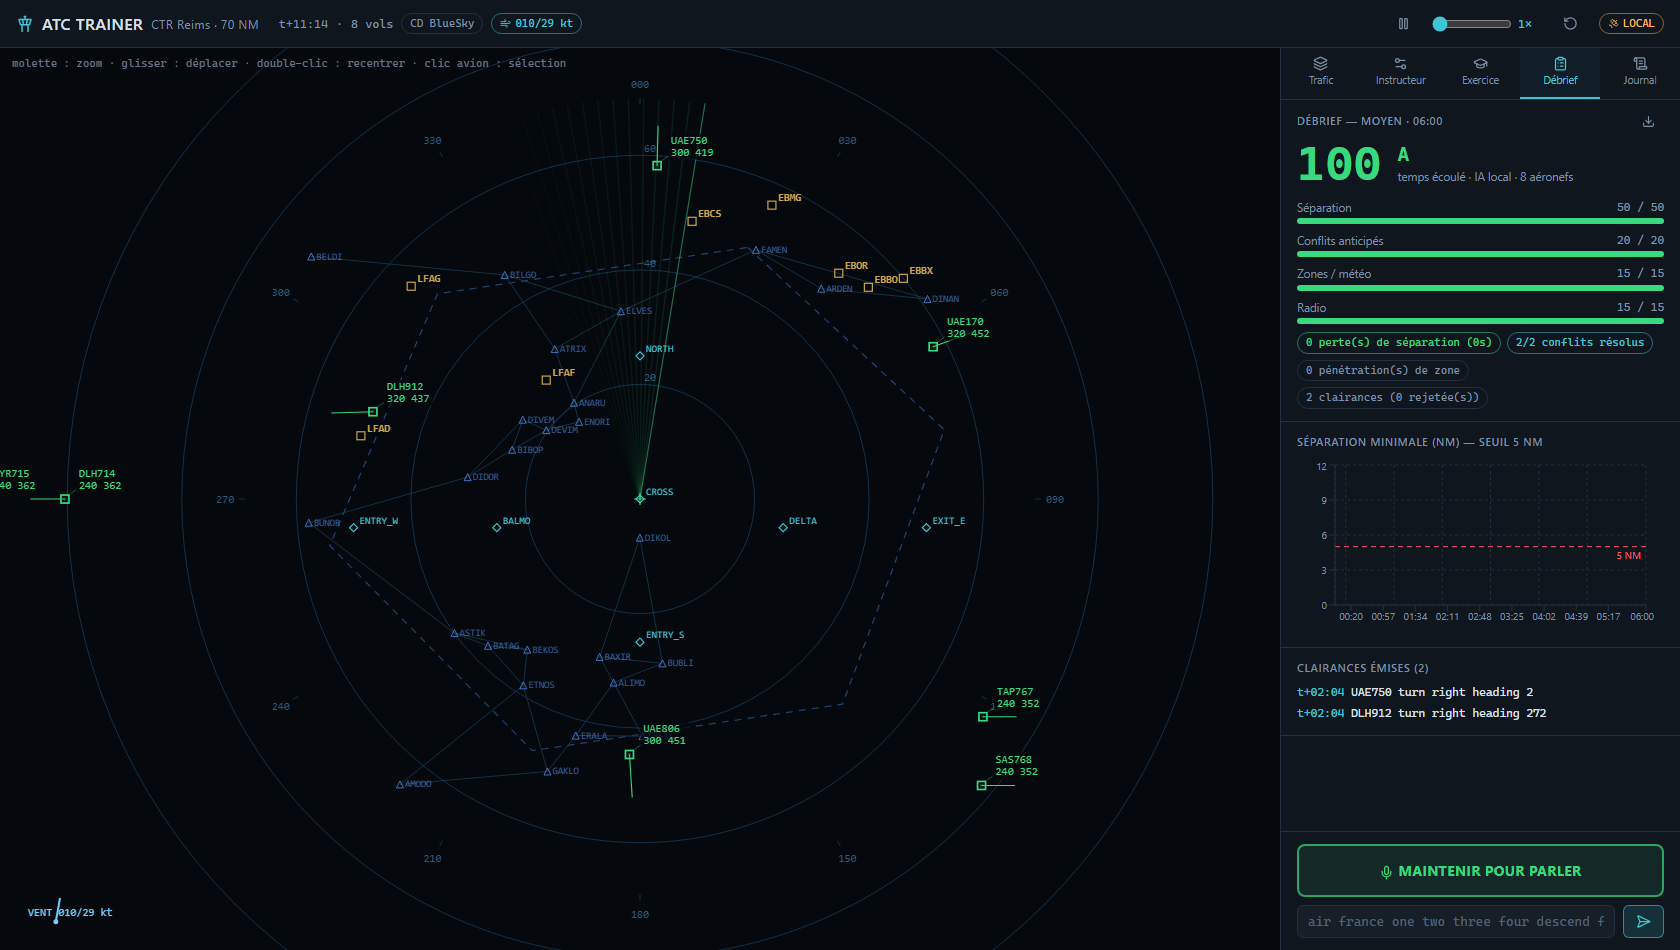
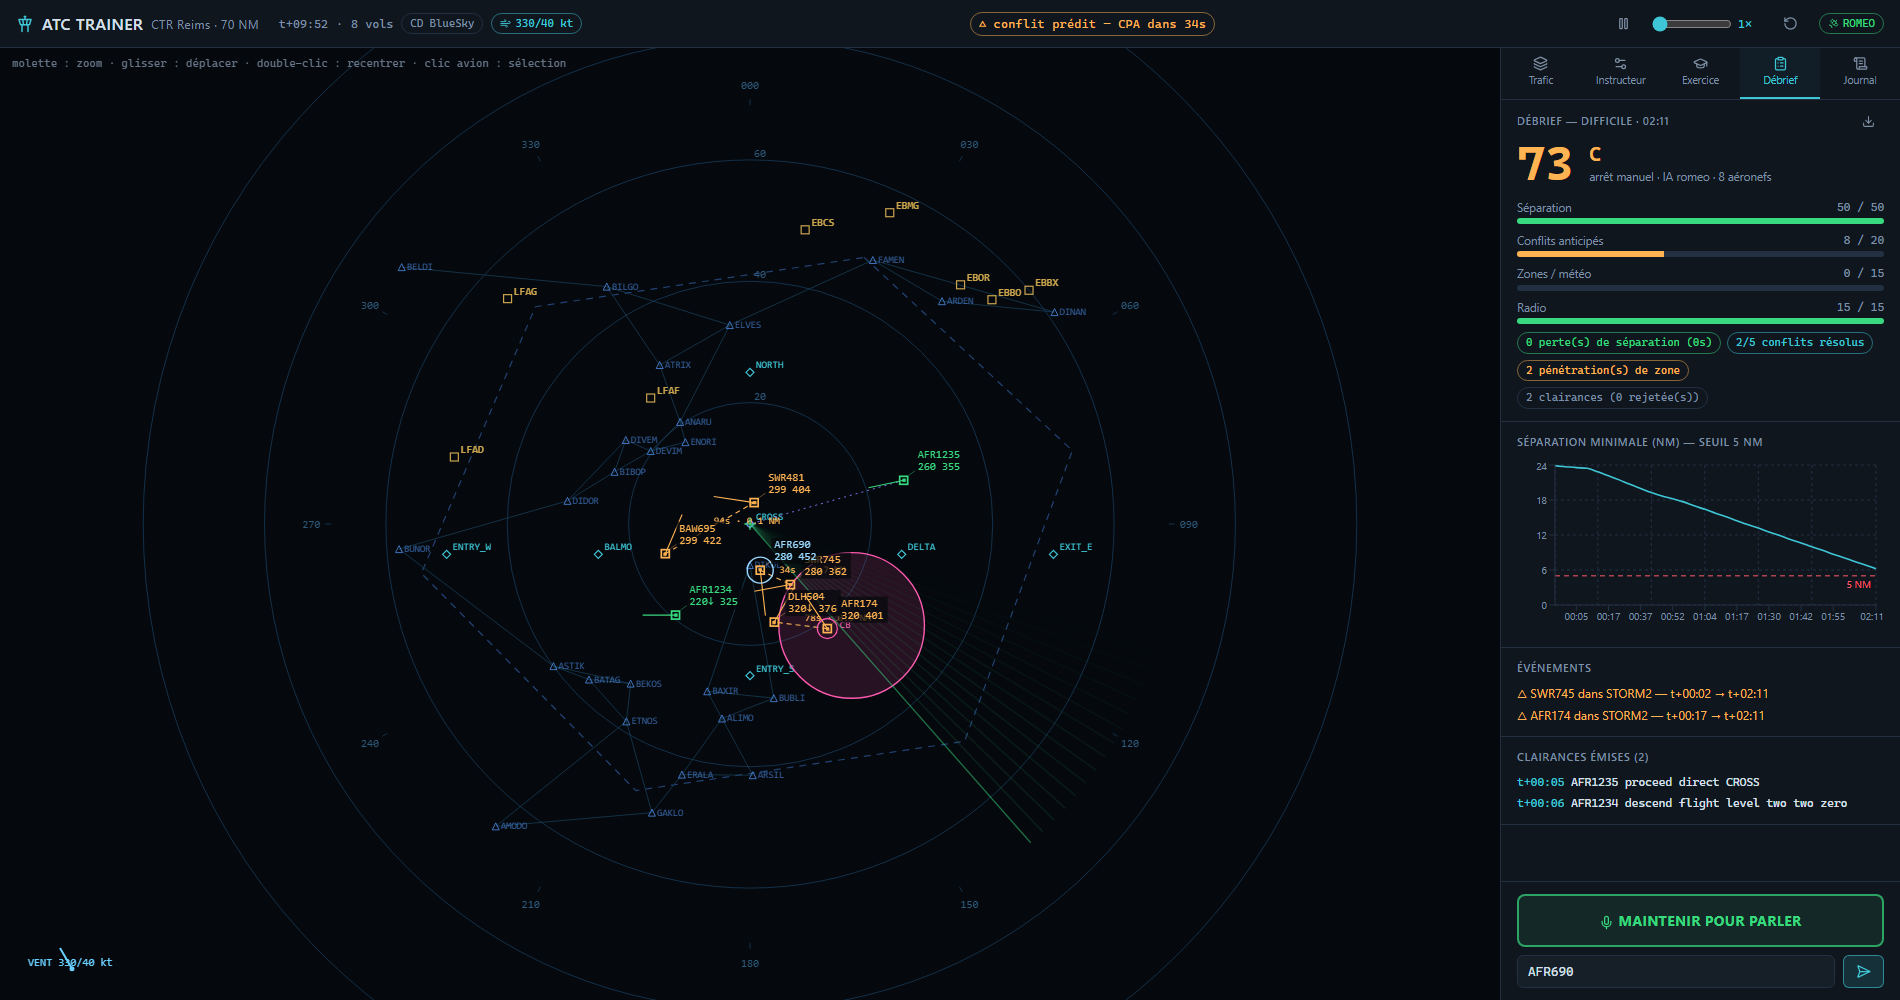
docs: refresh all README media with the new interface
- New hero GIF (docs/assets/app_radar_live.gif, ~12 s of live radar: sweep,
  trails, programmed conflict with time-to-CPA, storm cell, wind, strips).
- Regenerated stills at 1900x1000 with a staged Difficile exercise: radar +
  strips with an aircraft selected, exercise tab with objectives and live
  score, debrief with score breakdown and separation chart.
- tools/capture_media.py: reusable Playwright script that stages the scene
  through the API and regenerates every visual in one run.
- Removed the superseded matplotlib-era radar images/GIFs from the README and
  the tree (still available in git history); Demos section rewritten around
  the training interface.

diff --git a/tools/capture_media.py b/tools/capture_media.py
@@ -1,0 +1,151 @@
+"""
+Capture des visuels du README (PNG + GIF anime) sur l'application EN MARCHE.
+============================================================================
+Met en scene une situation riche via l'API (exercice Difficile : conflits
+programmes, vent, cellule orageuse), selectionne un avion, puis capture :
+
+  - docs/assets/app_radar.png        radar + strips (onglet Trafic)
+  - docs/assets/app_exercice.png     exercice en cours (objectifs + score live)
+  - docs/assets/app_debrief.png      debrief (score, barème, courbe de separation)
+  - docs/assets/app_radar_live.gif   ~12 s de radar vivant (balayage, trainees)
+
+Prerequis : l'application tournant sur http://127.0.0.1:8000 et
+            pip install playwright && playwright install chromium
+
+Execution : src\\bluesky-env\\Scripts\\python.exe tools\\capture_media.py
+"""
+import io
+import os
+import time
+
+import requests
+from PIL import Image
+from playwright.sync_api import sync_playwright
+
+BASE = "http://127.0.0.1:8000"
+HERE = os.path.dirname(os.path.abspath(__file__))
+ASSETS = os.path.join(os.path.dirname(HERE), "docs", "assets")
+
+VIEW_W, VIEW_H = 1900, 1000      # fenetre de capture
+SIDEBAR_W, TOPBAR_H = 400, 48    # geometrie de l'interface (App.tsx / TopBar.tsx)
+RANGE_NM = 70.0
+
+GIF_FRAMES = 70
+GIF_WIDTH = 1040
+GIF_FRAME_MS = 150
+
+
+def api(method, path, **kw):
+    r = requests.request(method, BASE + path, timeout=120, **kw)
+    r.raise_for_status()
+    return r.json() if r.content else {}
+
+
+def stage_scene():
+    """Exercice Difficile + une route directe + une descente : scene riche."""
+    api("post", "/api/health/refresh")
+    api("post", "/api/sim/reset")
+    time.sleep(1.5)
+    ex = api("post", "/api/exercise/start",
+             json={"difficulty": "difficile", "duration_min": 15, "seed": 7})
+    conflict_cs = {cs for c in ex["conflicts_built"] for cs in c["pair"]}
+    time.sleep(2.0)
+
+    st = api("get", "/api/state")
+    fillers = [a["id"] for a in st["aircraft"] if a["id"] not in conflict_cs]
+    if fillers:                                   # route FMS visible au radar
+        api("post", "/api/command", json={"text": f"{fillers[0]} proceed direct CROSS"})
+    if len(fillers) > 1:                          # fleche de descente sur les strips
+        api("post", "/api/command", json={"text": f"{fillers[1]} descend flight level two two zero"})
+
+    # avance acceleree jusqu'a l'apparition des conflits predits (lignes ambre)
+    api("post", "/api/sim/speed", json={"value": 6})
+    for _ in range(40):
+        time.sleep(2)
+        st = api("get", "/api/state")
+        if st.get("predicted"):
+            break
+    api("post", "/api/sim/speed", json={"value": 4})
+    return st
+
+
+def select_aircraft_click(page, state):
+    """Clique sur un avion en conflit predit -> anneau de selection cyan."""
+    target = None
+    pred = state.get("predicted") or []
+    if pred:
+        target = next((a for a in state["aircraft"] if a["id"] == pred[0]["pair"][0]), None)
+    target = target or (state["aircraft"][0] if state["aircraft"] else None)
+    if not target:
+        return
+    w, h = VIEW_W - SIDEBAR_W, VIEW_H - TOPBAR_H
+    scale = (min(w, h) / 2 - 30) / (RANGE_NM * 1.05)
+    px = w / 2 + target["x"] * scale
+    py = h / 2 - target["y"] * scale + TOPBAR_H
+    if 0 < px < w and TOPBAR_H < py < VIEW_H:
+        page.mouse.click(px, py)
+
+
+def shoot(page, tab_label, path, settle_ms=1800):
+    """Bascule d'onglet par CLIC (un changement de hash seul ne re-rend pas la SPA)."""
+    page.locator("nav button", has_text=tab_label).click()
+    page.wait_for_timeout(settle_ms)
+    page.screenshot(path=path)
+    print(f"  [png] {os.path.relpath(path, os.path.dirname(HERE))}"
+          f" ({os.path.getsize(path) // 1024} ko)")
+
+
+def record_gif(page, path):
+    """Frames pleine page -> GIF optimise (reduit a GIF_WIDTH px de large)."""
+    frames = []
+    for _ in range(GIF_FRAMES):
+        t0 = time.time()
+        png = page.screenshot()
+        im = Image.open(io.BytesIO(png)).convert("RGB")
+        ratio = GIF_WIDTH / im.width
+        im = im.resize((GIF_WIDTH, round(im.height * ratio)), Image.LANCZOS)
+        frames.append(im.quantize(colors=128, dither=Image.NONE))
+        time.sleep(max(0.0, GIF_FRAME_MS / 1000 - (time.time() - t0)))
+    frames[0].save(path, save_all=True, append_images=frames[1:],
+                   duration=GIF_FRAME_MS, loop=0, optimize=True)
+    print(f"  [gif] {os.path.relpath(path, os.path.dirname(HERE))}"
+          f" ({os.path.getsize(path) // 1024} ko, {len(frames)} images)")
+
+
+def main():
+    os.makedirs(ASSETS, exist_ok=True)
+    print("[1] mise en scene (exercice Difficile + meteo + conflits)...")
+    state = stage_scene()
+    npred = len(state.get("predicted") or [])
+    print(f"    {len(state['aircraft'])} avions, {npred} conflit(s) predit(s)")
+
+    with sync_playwright() as pw:
+        browser = pw.chromium.launch()
+        page = browser.new_page(viewport={"width": VIEW_W, "height": VIEW_H},
+                                device_scale_factor=1)
+        print("[2] stills...")
+        page.goto(f"{BASE}/#trafic")
+        page.wait_for_timeout(2500)
+        select_aircraft_click(page, api("get", "/api/state"))
+        page.wait_for_timeout(700)
+        page.screenshot(path=os.path.join(ASSETS, "app_radar.png"))
+        print("  [png] docs/assets/app_radar.png")
+        shoot(page, "Exercice", os.path.join(ASSETS, "app_exercice.png"))
+
+        print("[3] gif du radar vivant...")
+        shoot_back = page.locator("nav button", has_text="Trafic")
+        shoot_back.click()
+        page.wait_for_timeout(1200)
+        record_gif(page, os.path.join(ASSETS, "app_radar_live.gif"))
+
+        print("[4] debrief...")
+        api("post", "/api/sim/speed", json={"value": 1})
+        api("post", "/api/exercise/stop")
+        time.sleep(1.5)
+        shoot(page, "Débrief", os.path.join(ASSETS, "app_debrief.png"))
+        browser.close()
+    print("[OK] visuels regeneres dans docs/assets/")
+
+
+if __name__ == "__main__":
+    main()

diff --git a/README.md b/README.md
@@ -14,7 +14,7 @@ validated command, executed in the BlueSky simulator, and answered by a synthesi
 voice. The full chain runs as a real time loop, with the AI models hosted on a GPU cluster and the
 simulator running on a local machine.
 
-![Radar control session](docs/assets/radar_session.gif)
+![ATC Trainer — live radar with programmed conflicts, storm cell and flight strips](docs/assets/app_radar_live.gif)
 
 > Internship project (10 week PoC), University of Reims Champagne-Ardenne (URCA). AI compute on the
 > ROMEO supercomputer (NVIDIA GH200, Grace-Hopper, aarch64). Author: Nicolas Marano.
@@ -105,24 +105,15 @@ multilayer safety net) are measured and discussed in
 
 ## Demos
 
-### Realistic radar scope, built from the simulator data
+### A scored exercise in progress
 
-A controller style radar scope rendered from the real BlueSky simulation state and the real
-navigation database (waypoints, airports), centered on the Reims sector. Aircraft show a velocity
-leader and a data block (callsign, flight level, ground speed).
+The control-room interface during a *Difficile* exercise: the engine has placed conflict pairs
+(amber CONF tags and dashed line with time-to-CPA), a storm cell (CB) and a 40 kt wind; the radar
+shows velocity leaders, data blocks with climb/descend trends and cleared levels, FMS routes, and
+the strip bay sorts alerts first. The live score updates in the Exercice tab while the student
+works the frequency.
 
-![Radar scope Reims](docs/assets/radar_reims.png)
-
-### Live interaction: spoken instructions deviate the aircraft
-
-Four aircraft fly straight (heading 090). Natural language instructions are sent through the
-pipeline and the aircraft deviate. Left: before. Right: after the pipeline commands.
-
-![Before and after](docs/assets/radar_live_beforeafter.png)
-
-Animated replay with the rotating radar sweep:
-
-![Live radar replay](docs/assets/radar_live.gif)
+![Exercise in progress — objectives and live scoring](docs/assets/app_exercice.png)
 
 ### Whisper fine tuning and RAG results
 
